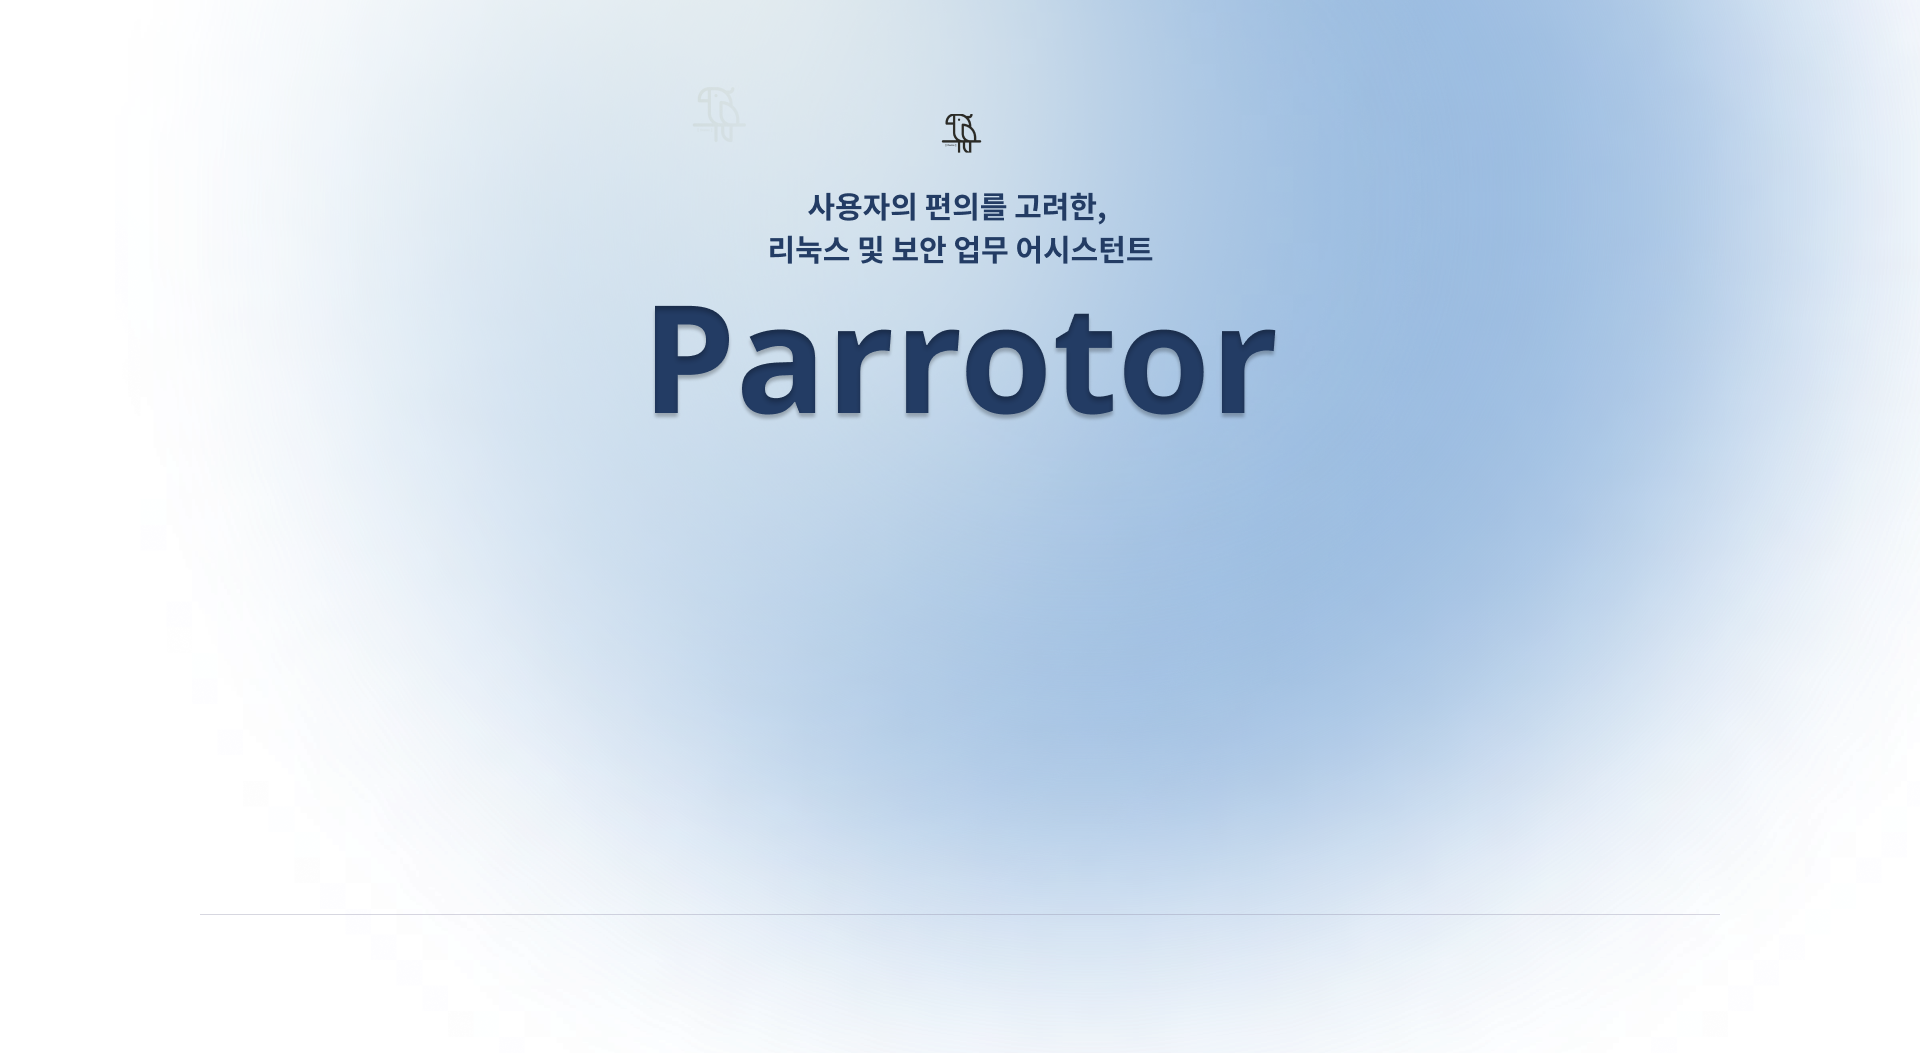
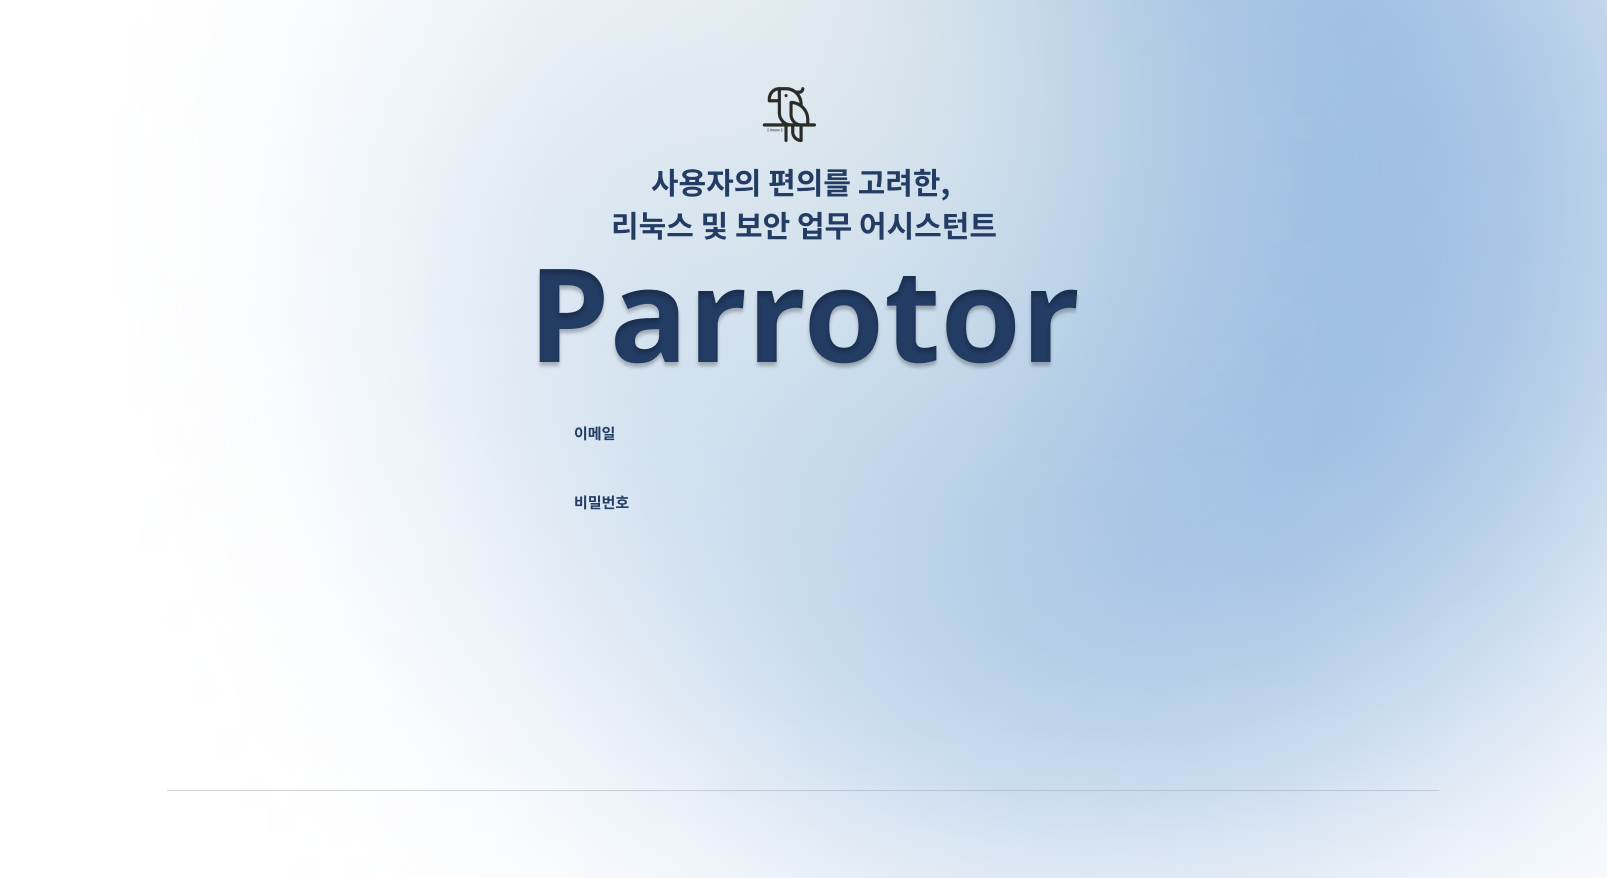
회원가입 디자인 완료

diff --git a/templates/user/signup.html b/templates/user/signup.html
@@ -7,7 +7,7 @@
 
         <!-- CSS import section start -->
         <!-- main CSS -->
-        <link href="{{ url_for('static', filename='css/main.css') }}" rel="stylesheet" crossorigin="anonymous">
+        <link href="{{ url_for('static', filename='css/figma-signup.css') }}" rel="stylesheet" crossorigin="anonymous">
         <!-- Bootstrap CSS -->
         <link href="{{ url_for('static', filename='css/bootstrap/bootstrap.min.css') }}" rel="stylesheet" crossorigin="anonymous">
         <!-- CSS import section end -->
@@ -16,76 +16,51 @@
     </head>
     
     <body class="signin_up" style="display: unset;">
-        <nav class="navbar navbar-light bg-light" style="justify-content: center; background-color: #233C63 !important;">
-            <a class="navbar-brand" href="/">
-            <img src="{{ url_for('static', filename='images/logo.png') }}" width="30" height="30" class="d-inline-block align-top" alt="">
-            <span style="color:#fff;">Parrotor</span>
-            </a>
-        </nav>
+        
 
-        <div class="form shadow-sm p-3 mb-5 bg-white rounded">
-            <h2 style="margin-bottom: 2rem;">회원가입</h2>
+            <div style="width: 100%;height: 10px;margin-top: 80px; text-align: center; color: #233C64; font-size: 14px; font-family: Poppins; font-weight: 600; text-transform: uppercase; line-height: 16px; letter-spacing: 1px; word-wrap: break-word">Parrotor</div>
+            <div class="signup-title">
+                회원가입 이후<br/>이용하세요.
+            </div>
+            
             <form id="signup_form" method="post">
-                <div class="form-group">
-                    <input type="text" class="form-control" id="user_name"placeholder="이름을 입력하세요.">
+                <div class="input-container">
+                    <div class="form-group">
+                        <label for="user_name" class="form-label">이름</label>
+                        <input type="text" class="form-control" id="user_name" placeholder="홍길동">
+                    </div>
+                    <div class="form-group">
+                        <label for="user_id" class="form-label">이메일</label>
+                        <input type="text" class="form-control" id="user_id" placeholder="abc@email.com">
+                    </div>
+                    <div class="form-group">
+                        <label for="user_pw" class="form-label">비밀번호</label>
+                        <input type="password" class="form-control" id="user_pw" aria-describedby="passwordHelp" placeholder="Password">
+                    </div>
+                    <div class="form-group">
+                        <label for="user_pw_check" class="form-label">비밀번호 재입력</label>
+                        <input type="password" class="form-control" id="user_pw_check" placeholder="Confirm Password">
+                    </div>
                 </div>
-                <div class="form-group">
-                    <input type="text" class="form-control" id="user_id" placeholder="아이디를 입력하세요.">
-                </div>
-                <div class="form-group"  style="text-align: left;">
-                    <input type="password" class="form-control" id="user_pw" aria-describedby="passwordHelp" placeholder="비밀번호를 입력하세요." style="margin-bottom: 0;">
-                    <small id="passwordHelp" class="form-text text-muted" style="margin-left:.5rem;">영문 소문자, 대문자, 숫자 섞어서 10자 이상</small>
-                </div>
-                <div class="form-group">
-                    <input type="password" class="form-control" id="user_pw_check" placeholder="비밀번호를 재입력하세요.">
-                </div>
-
-                <button type="submit" class="btn btn-primary btn-lg btn-block" style="width: 100%;">회원가입</button>
-                
+                <button type="submit" class="btn btn-primary btn-lg btn-block signup-button">회원가입</button>
             </form>
+            
+            
             <div class="login_options">
-                <button type="button" class="btn btn-outline-dark" onClick="location.href='/find_id'">아이디 찾기</button><span>|</span>
-                <button type="button" class="btn btn-outline-dark" onClick="location.href='find_pw'">비밀번호 찾기</button><span>|</span>
-                <button type="button" class="btn btn-outline-dark" onClick="location.href='/'">로그인</button>
+                <span>아이디가 존재하나요? </span>
+                <button type="button" class="btn btn-outline-dark" onClick="location.href='/'">로그인 하기</button>
             </div>
-        </div>
+            
+        
 
-        <footer class="bg-light text-center text-lg-start">
-            <!-- Grid container -->
-            <div class="container p-4">
-              <!--Grid row-->
-              <div class="row">
-                <!--Grid column-->
-                <div class="col-lg-6 col-md-12 mb-4 mb-md-0">
-                  <h5 class="text-uppercase">프로젝트의 설명이 들어갈 예정입니다.</h5>
-          
-                  <p>
-                    프로젝트의 설명이 들어갈 예정입니다.
-                  </p>
-                </div>
-                <!--Grid column-->
-          
-                <!--Grid column-->
-                <div class="col-lg-6 col-md-12 mb-4 mb-md-0">
-                  <h5 class="text-uppercase">프로젝트의 설명이 들어갈 예정입니다.</h5>
-          
-                  <p>
-                    프로젝트의 설명이 들어갈 예정입니다.
-                  </p>
-                </div>
-                <!--Grid column-->
-              </div>
-              <!--Grid row-->
-            </div>
-            <!-- Grid container -->
-          
+                     
             <!-- Copyright -->
-            <div class="text-center p-3" style="background-color: rgba(0, 0, 0, 0.2);">
+            <div class="text-center p-3">
               © 2023 Copyright:
               <a class="text-dark" href="#">Team Jirangobie</a>
             </div>
             <!-- Copyright -->
-          </footer>
+
 
         <!-- Javascript import section start -->
         <!-- Bootstrap JS -->

diff --git a/static/css/figma-signup.css b/static/css/figma-signup.css
@@ -1,0 +1,114 @@
+.signin_up {
+    display: flex;
+    flex-direction: column;
+    align-items: center;
+    justify-content: flex-start; /* 상단에서 시작 */
+    height: 100vh;
+    padding-top: 3rem; /* 상단 패딩 추가 */
+}
+
+.form {
+    width: 100%;
+    max-width: 520px; /* 폼의 최대 너비 */
+    box-shadow: 0 0 10px rgba(0, 0, 0, 0.1); /* 그림자 추가 */
+    background: white;
+    padding: 2rem;
+    border-radius: 8px;
+    margin-bottom: 2rem; /* 아래쪽 여백 */
+}
+
+.signup-title {
+    width: 100%; /* 전체 너비 사용 */
+    text-align: center;
+    color: #233C64;
+    font-size: 60px;
+    font-family: 'Noto Sans KR', sans-serif;
+    font-weight: 700;
+    margin-bottom: 2rem;
+}
+
+.input-container {
+    display: flex;
+    flex-direction: column;
+    align-items: center;
+    width: 100%;
+}
+.form-group {
+    display: flex;
+    flex-direction: column;
+    align-items: flex-start; /* 자식 요소를 왼쪽으로 정렬 */
+    width: 100%;
+    max-width: 460px; /* 부모 컨테이너의 최대 너비 설정 */
+    margin-left: auto;
+    margin-right: auto;
+}
+
+.form-group label {
+    margin-bottom: 0.2rem;
+    margin-top: 0.1rem;
+    color: #233C64;
+    font-size: 15px;
+    font-family: 'DM Sans', sans-serif;
+    font-weight: 700;
+}
+
+.form-group .form-control {
+    width: 100%; /* 입력 필드의 너비를 부모 컨테이너에 맞춤 */
+    height: 53px;
+    border-radius: 50px;
+    border: none;
+    background: #FBFAEC;
+    font-family: 'DM Sans', sans-serif;
+    font-size: 15px;
+    color: #8D8BA7;
+    padding-left: 20px; /* 내부 여백 설정 */
+}
+#signup_form {
+    display: flex;
+    flex-direction: column;
+    align-items: center;
+}
+
+/* 기존의 .signup-button 스타일 */
+.signup-button {
+    width: 139px; 
+    height: 46px;
+    background: #233C64 !important;
+    border-radius: 40px!important ;
+    color: white;
+    font-size: 18px;
+    font-family: 'DM Sans', sans-serif;
+    font-weight: 700;
+    border: none;
+    margin-top: 2rem;
+    margin-bottom: 2rem;
+    display: block;
+    margin-left: auto;
+    margin-right: auto;
+}
+
+.signup-button div {
+    color: white;
+    font-size: 18px;
+    font-family: 'DM Sans', sans-serif;
+    font-weight: 700;
+}
+
+.login_options {
+    text-align: center;
+}
+
+.login_options span, .login_options button {
+    color: #233C64;
+    font-size: 18px;
+    font-weight: 400;
+    background: none;
+    border: none;
+    padding: 0;
+    margin: 0;
+}
+
+.login_options button {
+    text-decoration: underline;
+    margin-left: 0.5rem;
+}

diff --git a/templates/user/signin.html b/templates/user/signin.html
@@ -25,14 +25,14 @@
     <body class="signin_up" style="display: unset;">
         <div style="position: relative; width: 100%; height: 100%;">
             <!-- Form container -->
-            <div style="position: absolute; left: 50%; top: 50%; transform: translate(-50%, -50%); width: 460px;">
+            <div style="position: absolute; left: 50%; top: 50%; transform: translate(-50%, -50%); width: 520px;">
                 <div class="form p-3 mb-5">
                     <form id="signin_form" method="post">
                         <div class="form-group" style="margin-bottom: 20px;">
-                            <input type="text" class="form-control" id="user_id" placeholder="아이디를 입력하세요.">
+                            <input type="text" class="form-control" id="user_id" placeholder="abc@email.com">
                         </div>
                         <div class="form-group" style="margin-bottom: 20px;">
-                            <input type="password" class="form-control" id="user_pw" placeholder="비밀번호를 입력하세요.">
+                            <input type="password" class="form-control" id="user_pw" placeholder="Password">
                         </div>
                         <button type="submit" class="btn btn-primary btn-lg btn-block">로그인</button>
                         

diff --git a/static/css/figma-signin.css b/static/css/figma-signin.css
@@ -33,20 +33,28 @@ body, html {
     left: 50%; 
     top: 1%;
     transform: translate(-50%, -20%); 
-    width: 460px; 
-    height: 300px;
+    width: 520px; 
+    height: 50px;
     background: transparent; 
     padding: 20px; 
-    border-radius: 20px; 
+    border-radius: 50px; 
     text-align: center;
 }
 
+
 .form-group .form-control {
+    margin-left: auto;
+    margin-right: auto;
+    margin-top:20px;
+    width: 490px;
+    height: 45px;
     background: #FCFCFC;
     border-radius: 50px;
     font-size: 0.8rem;
     margin: 1.5rem 0rem 1rem 0rem;
+    display: block;
 }
+
 
 .signin_up .btn-primary {
     margin-top: 40px;
@@ -67,15 +75,15 @@ body, html {
 .signin_up .btn-outline-dark {
     margin: 1rem .2rem;
     border: none; 
-    font-size: 0.7rem; 
+    font-size: 1rem; 
     color: #233C63; 
     background-color: transparent; 
 }
 
 .signin_up .login_options {
-    margin-top: 180px;
+    margin-top: 220px;
     display: block;
-    font-size: 0.6rem;
+    font-size: 0.8rem;
 }
 
 .footer {

diff --git a/views/API/logs/logs_dashboard_api.py b/views/API/logs/logs_dashboard_api.py
@@ -50,7 +50,6 @@ def chart():
     ]
 
     logs_by_date = list(db.log.aggregate(pipeline))
-    print(logs_by_date)
     
 
     
